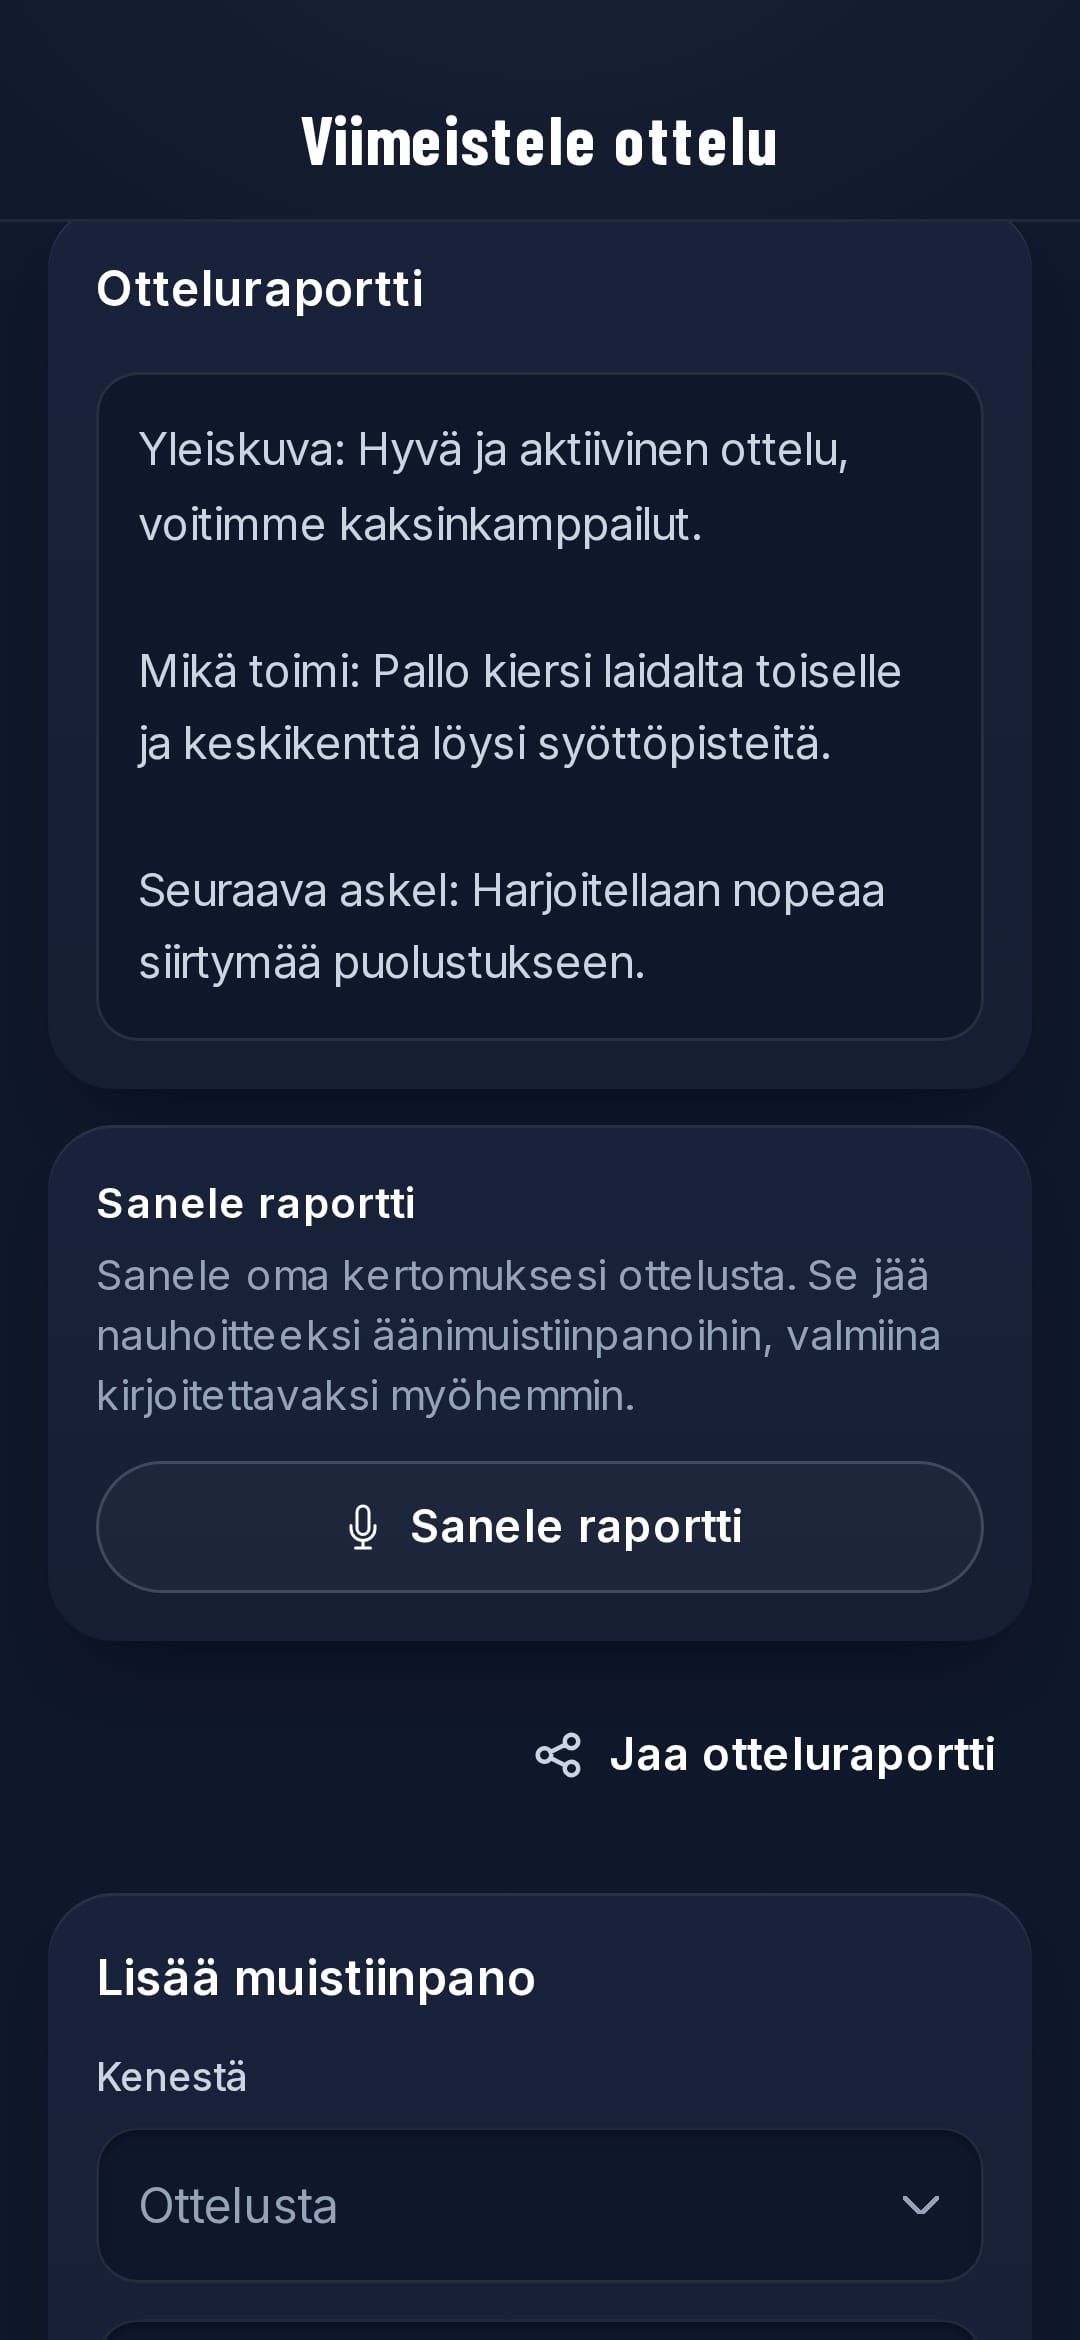
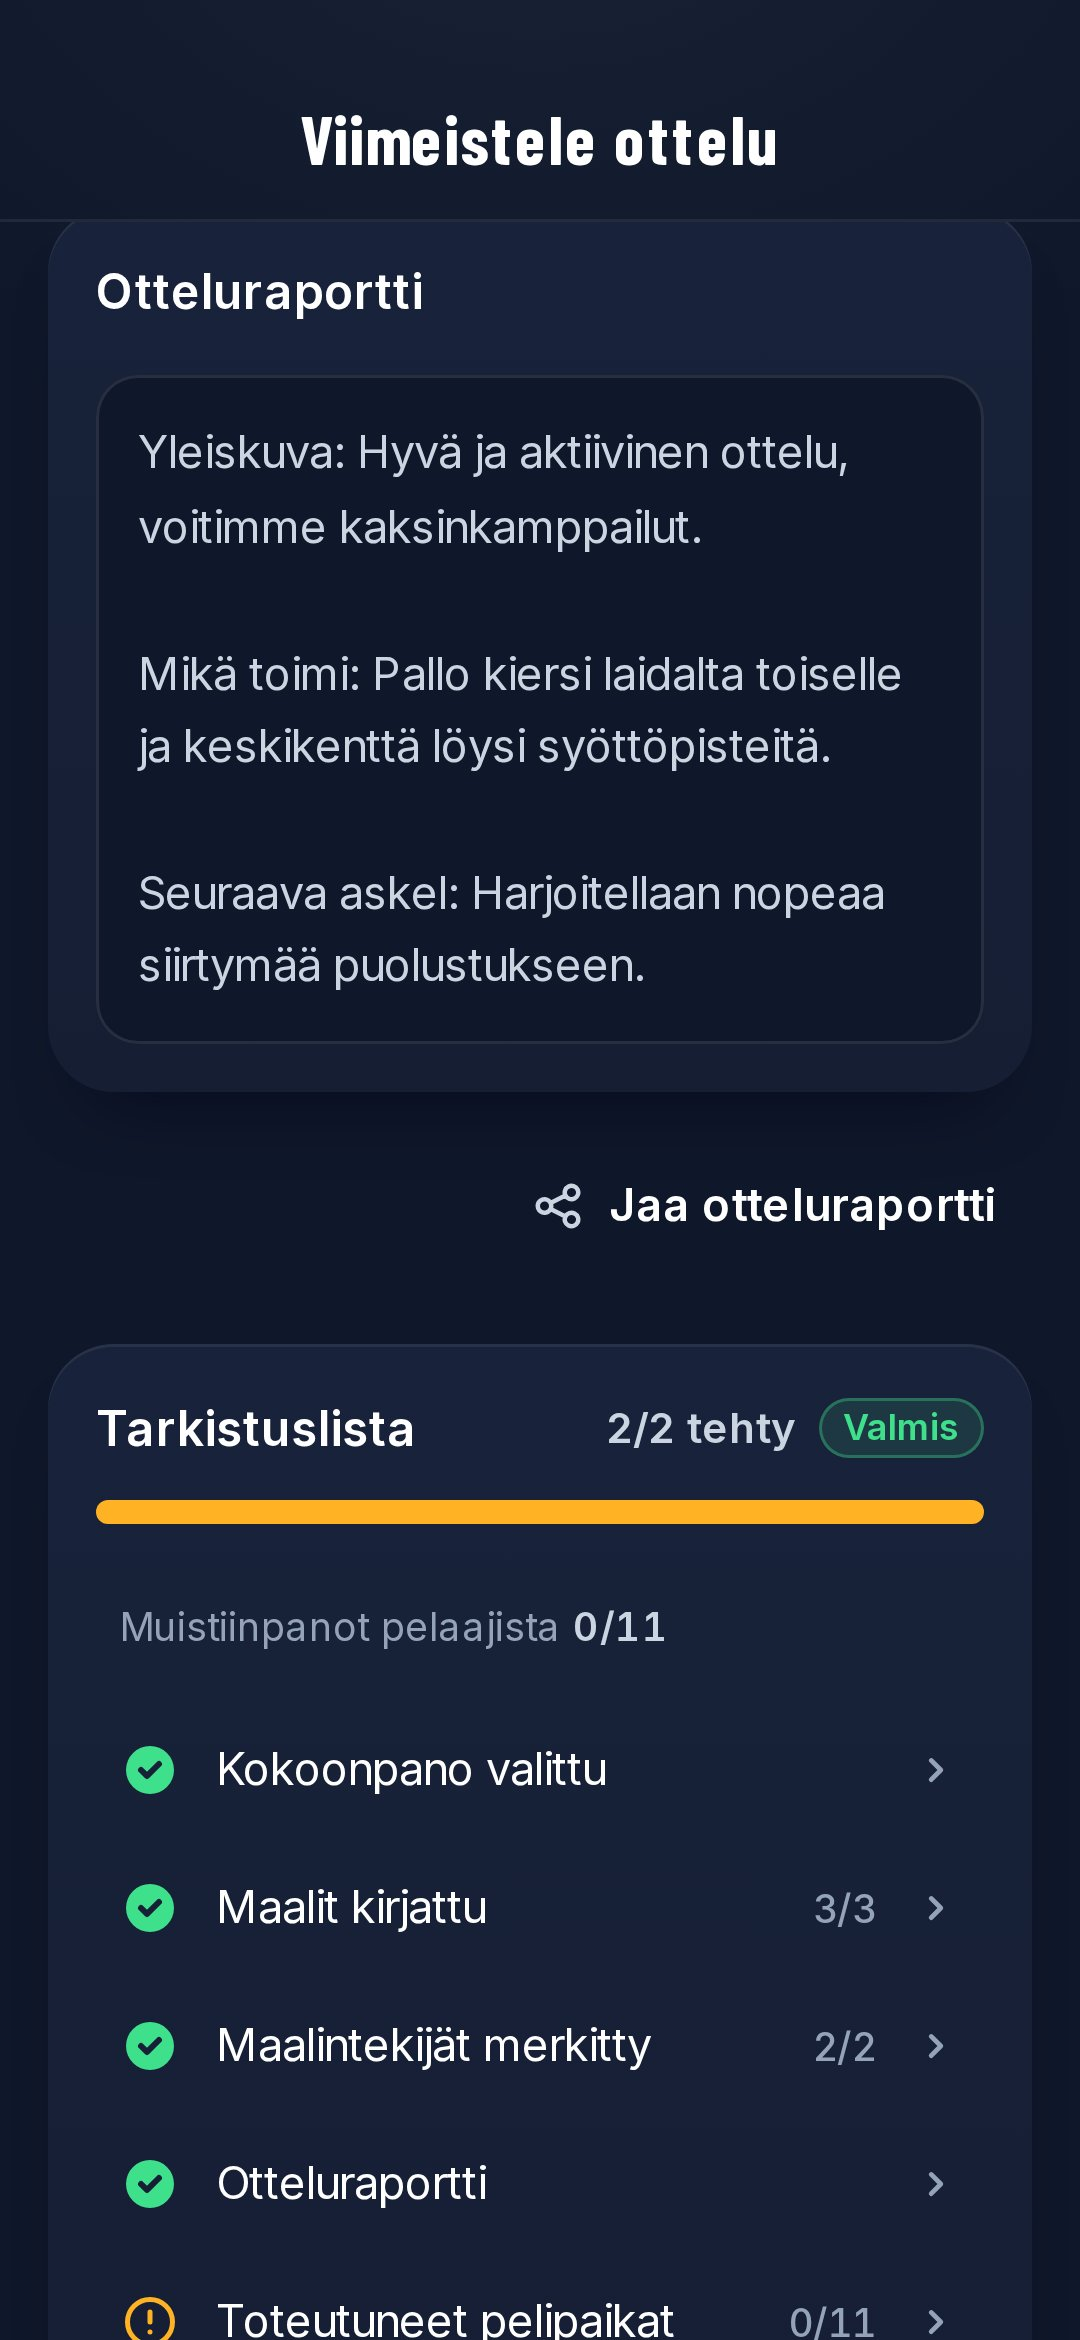
Site: owner's Finnish copy, no about section, Taso as an example only
- Home copy (fi) replaced verbatim with the owner's decisions: hero title and
  subtitle, alt texts, the three steps, planner spotlight, match report,
  positions, Ottelutapahtumat, extra time + rangaistuspotkukilpailu, roster,
  FAQ, footer labels, SEO description. English says the same things.
- "Kuka tekee" / "Who makes it" section removed; unused footer.legal and
  marketing.featureCards.matchReportDesc removed.
- Taso: trust row "Valmis pöytäkirja", out of the page title, spotlight
  "Pöytäkirja valmiina kopioitavaksi" naming Taso only as an example; the
  FAQ question stays. JSON-LD reads the same strings.
- Shootout wording: rangaistuspotku(kilpailu) everywhere incl. guide MDX,
  matching the app's new labels.
- Match report screenshot retaken from the app (fictional demo club) without
  the hidden dictation card; unused development/trends screenshots deleted.
- Guide: roster card no longer mentions player assessments.
- Privacy: voice-notes intro synced with the app (plain voice notes visible,
  only the AI is experimental and hidden); terms: AI services are an
  experimental feature not currently available to users.

Claude-Session: https://claude.ai/code/session_01KuWfgGSnWiti983zJqfqYy

diff --git a/site/pages/index.tsx b/site/pages/index.tsx
@@ -9,7 +9,6 @@ import { serverSideTranslations } from 'next-i18next/serverSideTranslations';
 import type { GetStaticProps } from 'next';
 import { FaArrowUp, FaCheck, FaChevronDown, FaYoutube } from 'react-icons/fa';
 import {
-  CONTACT_EMAIL,
   SITE_URL,
   YOUTUBE_CHANNEL_URL,
   absoluteUrl,
@@ -382,11 +381,11 @@ export default function HomePage() {
         </div>
       </section>
 
-      {/* ===== KIDS' DATA + WHO MAKES IT ===== */}
+      {/* ===== KIDS' DATA ===== */}
       <section className="section section-divider bg-slate-800/50">
         <div className="container-custom">
-          <div className="max-w-6xl mx-auto grid gap-12 lg:grid-cols-3">
-            <div className="lg:col-span-2">
+          <div className="max-w-4xl mx-auto">
+            <div>
               <div className="text-primary text-sm font-semibold uppercase tracking-wider mb-2">
                 {t('home.kids.eyebrow')}
               </div>
@@ -406,24 +405,6 @@ export default function HomePage() {
                 <Link href="/privacy" className="text-primary hover:text-primary-light underline underline-offset-4">
                   {t('home.kids.privacyLink')}
                 </Link>
-              </p>
-            </div>
-            <div className="rounded-lg border border-slate-700/50 bg-slate-900/60 p-6 self-start">
-              <Image
-                src="/logos/matchops-badge.svg"
-                alt=""
-                width={48}
-                height={48}
-                unoptimized
-                className="mb-4"
-              />
-              <h2 className="text-2xl font-bold text-white mb-3">{t('home.about.title')}</h2>
-              <p className="text-slate-300 mb-4">{t('home.about.body')}</p>
-              <p className="text-sm text-slate-400">
-                {t('home.about.contact')}{' '}
-                <a href={`mailto:${CONTACT_EMAIL}`} className="text-primary hover:text-primary-light">
-                  {CONTACT_EMAIL}
-                </a>
               </p>
             </div>
           </div>

diff --git a/site/pages/marketing-assets.tsx b/site/pages/marketing-assets.tsx
@@ -95,8 +95,6 @@ const getScreenshots = (locale: string | undefined) => {
     tacticalBoard: shot('tacticalboard'),
     formations: shot('formations'),
     roster: shot('roster'),
-    assessment: shot('development'),
-    trends: shot('trends'),
     seasons: shot('seasons'),
     tournaments: shot('tournaments'),
     teams: shot('teams'),
